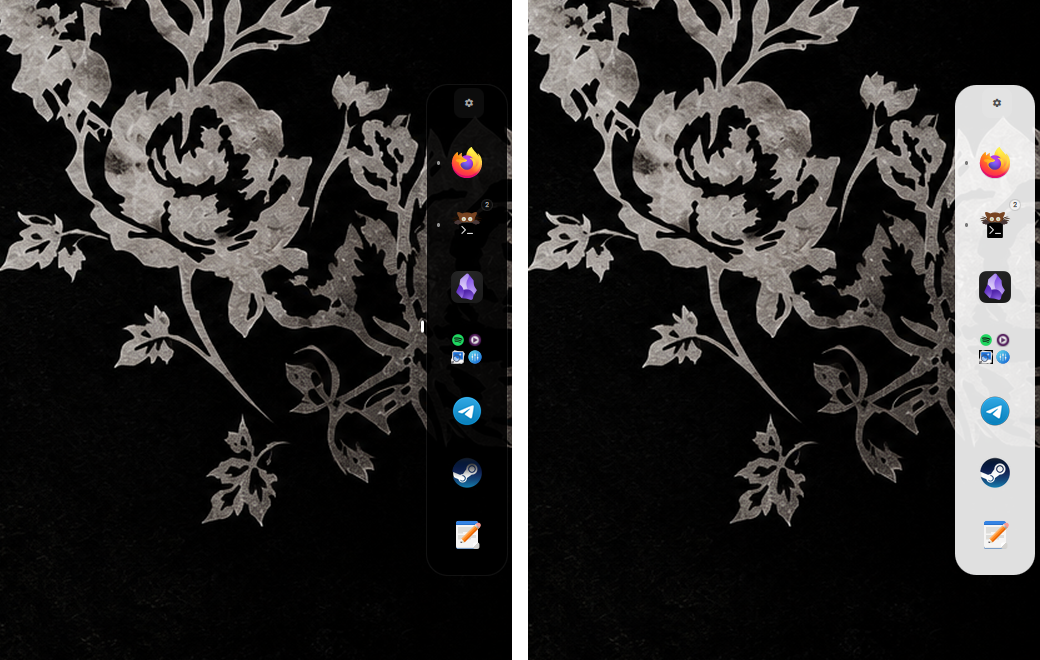
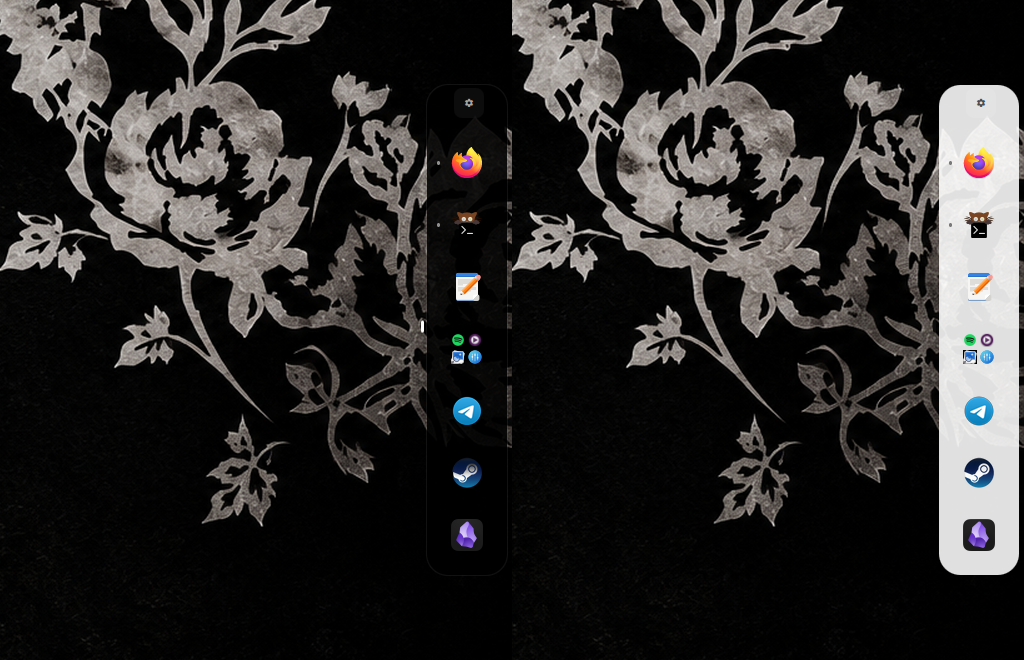
Refresh screenshots for 1.1.0
The rail in both themes, window previews beside the rail over two Text Editor windows, the tile menu for Firefox, and the Windows section of the settings panel. Captured on Hyprland at 1920x1080 on an empty workspace and kept lossless.

Changed region(s): [[0.0312, 0.0, 1.0, 1.0], [0.9375, 0.7879, 0.9688, 0.8485], [0.9375, 0.697, 0.9688, 0.7273]]

diff --git a/docs/index.html b/docs/index.html
@@ -397,7 +397,7 @@ h3 { margin: 56px 0 18px; font: 700 14px/1.4 var(--mono); color: var(--ink); }
 
 .shots {
   display: grid;
-  grid-template-columns: minmax(0, 260px) minmax(0, 1fr);
+  grid-template-columns: repeat(2, minmax(0, 1fr));
   gap: 16px;
   max-width: 760px;
 }
@@ -877,19 +877,23 @@ h3 { margin: 56px 0 18px; font: 700 14px/1.4 var(--mono); color: var(--ink); }
 
   <section class="block" id="desktop" aria-labelledby="desktop-title">
     <h2 id="desktop-title">On a desktop</h2>
-    <p class="section-lede">Captured on Hyprland at 1920×1080: the rail in both themes, window previews for a terminal with two windows, and Quay's own settings panel.</p>
+    <p class="section-lede">Captured on Hyprland at 1920×1080: the rail in both themes, window previews beside the rail for an app with two windows, the tile menu, and the Windows section of Quay's own settings panel.</p>
     <div class="shots">
       <figure class="wide">
-        <img src="screenshots/rail.png" width="1040" height="660" loading="lazy" alt="The rail docked to the right edge of the screen, in the black theme and in the white theme">
+        <img src="screenshots/rail.png" width="1024" height="660" loading="lazy" alt="The rail docked to the right edge of the screen, in the black theme and in the white theme">
         <figcaption>Black and white themes</figcaption>
       </figure>
       <figure>
-        <img src="screenshots/preview.png" width="260" height="540" loading="lazy" alt="Window previews for the terminal, open inside the rail">
-        <figcaption>Window previews</figcaption>
+        <img src="screenshots/preview.png" width="400" height="540" loading="lazy" alt="Live previews of two Text Editor windows, open beside the rail">
+        <figcaption>Window previews beside the rail</figcaption>
       </figure>
       <figure>
-        <img src="screenshots/settings.png" width="760" height="580" loading="lazy" alt="Quay's settings panel on the Appearance pane">
-        <figcaption>Settings panel</figcaption>
+        <img src="screenshots/menu.png" width="512" height="660" loading="lazy" alt="The tile menu for Firefox: its own shortcuts, pinning, folders and closing">
+        <figcaption>Tile menu</figcaption>
+      </figure>
+      <figure class="wide">
+        <img src="screenshots/settings.png" width="760" height="580" loading="lazy" alt="Quay's settings panel on the Windows section, choosing where previews open">
+        <figcaption>Settings panel, Windows section</figcaption>
       </figure>
     </div>
   </section>

diff --git a/README.tr.md b/README.tr.md
@@ -99,13 +99,18 @@ _2026-09-13 tarihinde yayınlandı · [Tüm değişiklik günlüğü](CHANGELOG.
 ## Yakından
 
 <p align="center">
-  <img src="docs/screenshots/preview.png" height="360" alt="Rayın içinde açık duran terminal pencere önizlemeleri">
+  <img src="docs/screenshots/preview.png" height="360" alt="Rayın yanında açılan, iki Metin Düzenleyici penceresinin canlı önizlemeleri">
   &nbsp;
-  <img src="docs/screenshots/settings.png" height="360" alt="Quay'in ayar paneli, Görünüm bölümünde">
+  <img src="docs/screenshots/menu.png" height="360" alt="Firefox kutucuğunun menüsü: kendi kısayolları, sabitleme, klasörler ve kapatma">
 </p>
 
-İki terminal penceresi olan bir uygulamanın pencere önizlemeleri ve Quay'in
-kendi ayar paneli. Hyprland'de 1920×1080 çözünürlükte çekildi.
+<p align="center">
+  <img src="docs/screenshots/settings.png" width="560" alt="Quay'in ayar paneli, önizlemenin nereye açılacağının seçildiği Pencereler bölümünde">
+</p>
+
+İki penceresi olan bir uygulamanın rayın yanında açılan önizlemeleri, kutucuk
+menüsü ve Quay'in kendi ayar panelindeki Pencereler bölümü. Hyprland'de
+1920×1080 çözünürlükte çekildi.
 
 ## Gereksinimler
 

diff --git a/README.md b/README.md
@@ -99,13 +99,18 @@ _Released 2026-09-13 · [Full changelog](CHANGELOG.md)_
 ## A closer look
 
 <p align="center">
-  <img src="docs/screenshots/preview.png" height="360" alt="Window previews for the terminal, open inside the rail">
+  <img src="docs/screenshots/preview.png" height="360" alt="Live previews of two Text Editor windows, open beside the rail">
   &nbsp;
-  <img src="docs/screenshots/settings.png" height="360" alt="Quay's settings panel on the Appearance pane">
+  <img src="docs/screenshots/menu.png" height="360" alt="The tile menu for Firefox: its own shortcuts, pinning, folders and closing">
 </p>
 
-Window previews for an app with two terminals, and Quay's own settings panel.
-Captured on Hyprland at 1920×1080.
+<p align="center">
+  <img src="docs/screenshots/settings.png" width="560" alt="Quay's settings panel on the Windows section, choosing where previews open">
+</p>
+
+Window previews beside the rail for an app with two windows, the tile menu, and
+the Windows section of Quay's own settings panel. Captured on Hyprland at
+1920×1080.
 
 ## Requirements
 
